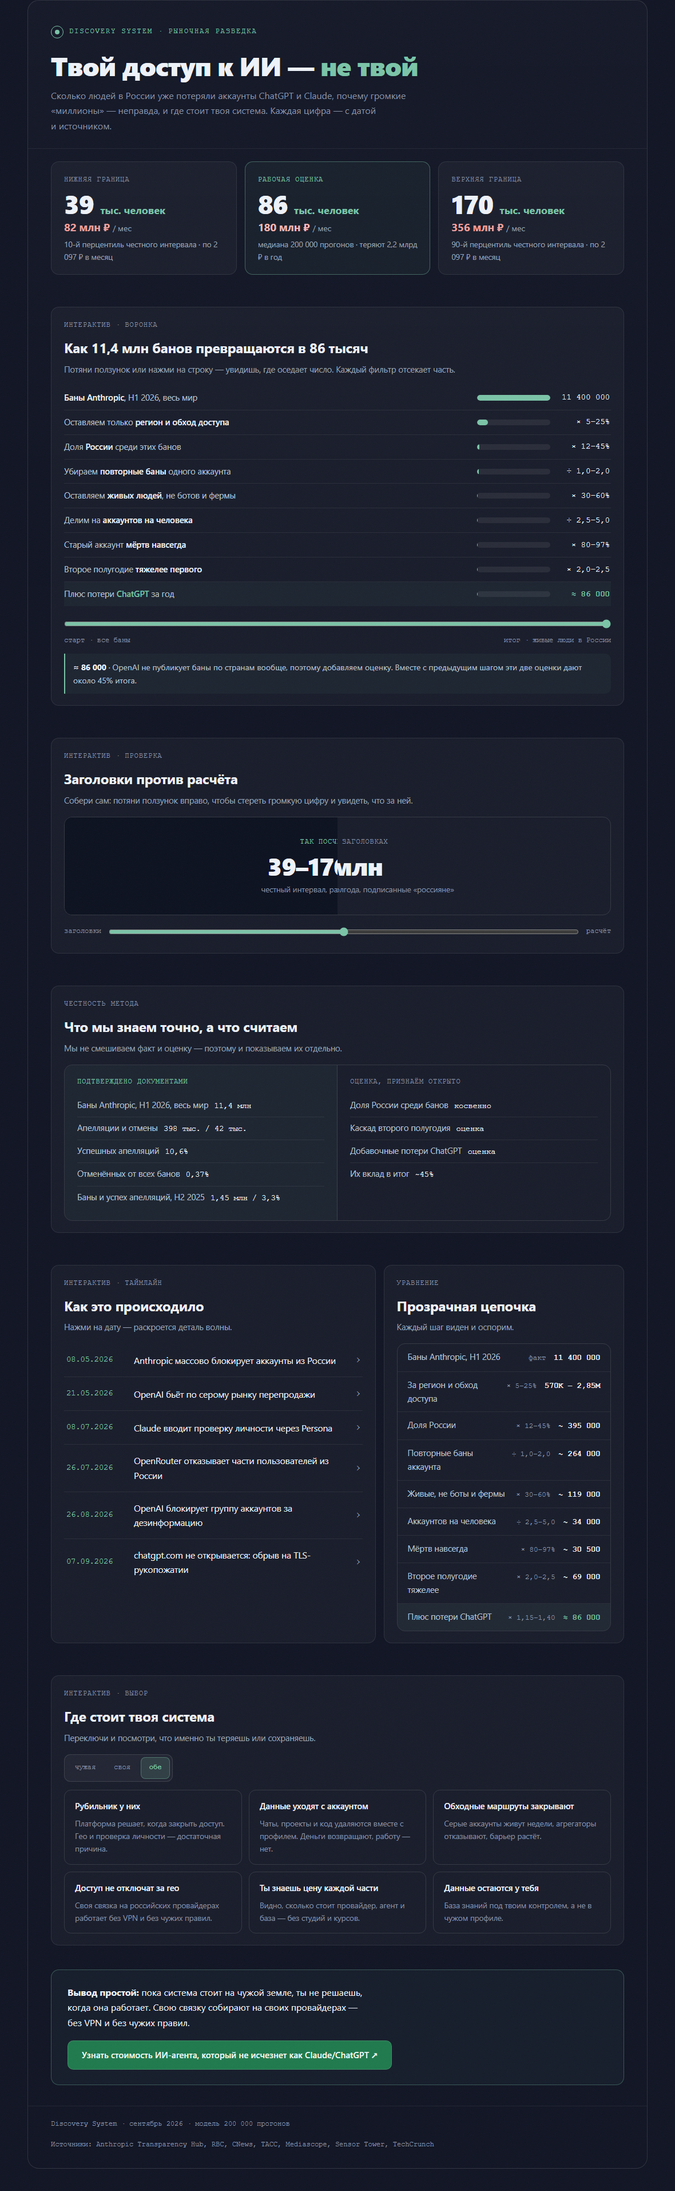
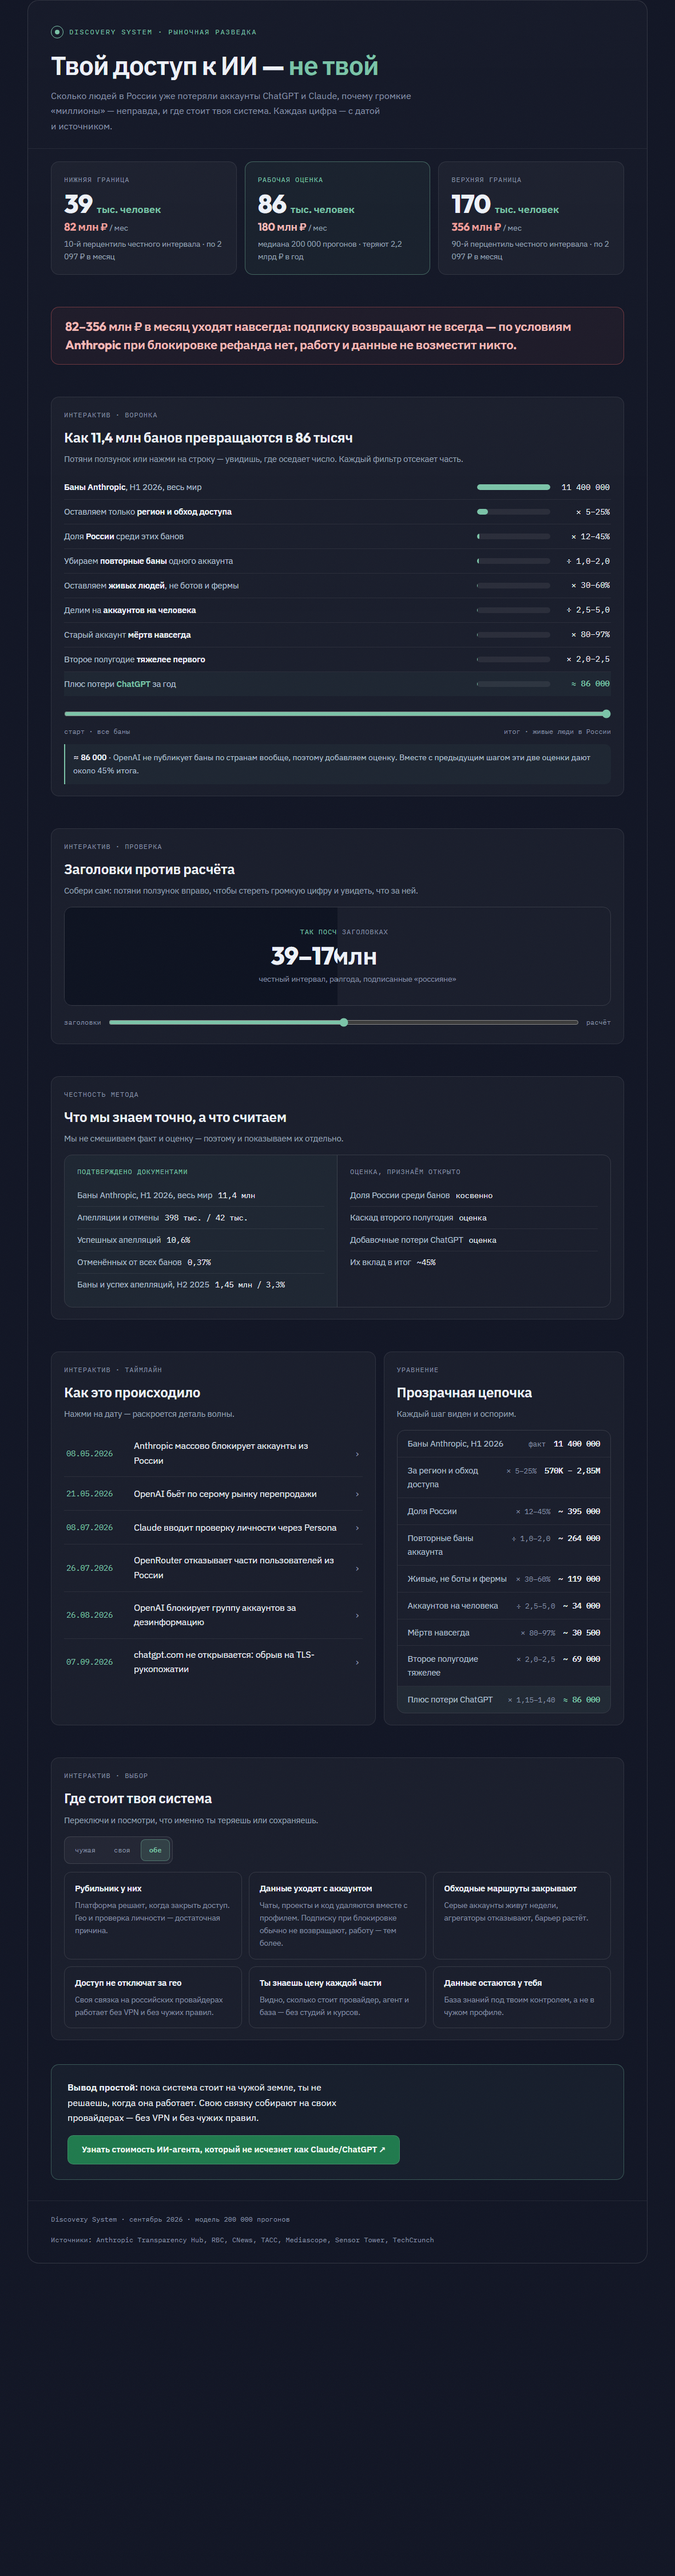
инфографика: строка потерь в рублях (не возместит никто), убрано противоречие про возврат подписки

diff --git a/lost-accounts-infographic.html b/lost-accounts-infographic.html
@@ -41,6 +41,7 @@ header p{margin-top:14px;max-width:660px;color:var(--meta);font-size:16px}
 .money b{font-weight:800}
 .money.acc{color:#f3b9b7}
 .v.red{color:#f0a09e}
+.loss-line{border:1px solid rgba(224,96,94,.4);background:rgba(224,96,94,.06);border-radius:14px;padding:18px 24px;font-family:var(--display);font-weight:700;font-size:clamp(1.05rem,2.4vw,1.35rem);color:#f3b9b7;line-height:1.45;letter-spacing:-.01em}
 .c{font-size:13.5px;color:#9aa5b8}
 h2{font-family:var(--display);font-weight:700;font-size:clamp(1.15rem,2.4vw,1.5rem);color:var(--ink);letter-spacing:-.01em;margin-bottom:6px}
 .sub{color:#9aa5b8;font-size:14.5px;margin-bottom:16px}
@@ -162,6 +163,7 @@ h1,h2{text-wrap:balance}p,li{text-wrap:pretty}
 <div class="card hi rv"><div class="k acc">рабочая оценка</div><div class="v"><span data-count="86">86</span> <small>тыс. человек</small></div><div class="money acc"><span data-count="180">180</span> млн ₽ <span style="font-size:.75em;color:#9aa5b8;font-weight:400">/ мес</span></div><div class="c">медиана 200 000 прогонов · теряют 2,2 млрд ₽ в год</div></div>
 <div class="card rv"><div class="k">верхняя граница</div><div class="v"><span data-count="170">170</span> <small>тыс. человек</small></div><div class="money"><span data-count="356">356</span> млн ₽ <span style="font-size:.75em;color:#9aa5b8;font-weight:400">/ мес</span></div><div class="c">90-й перцентиль честного интервала · по 2 097 ₽ в месяц</div></div>
 </div>
+<div class="grid one"><div class="loss-line rv">82–356 млн ₽ в месяц уходят навсегда: подписку возвращают не всегда — по условиям Anthropic при блокировке рефанда нет, работу и данные не возместит никто.</div></div>
 
 <div class="grid one">
 <div class="card rv">
@@ -215,7 +217,7 @@ h1,h2{text-wrap:balance}p,li{text-wrap:pretty}
 <h2>Как это происходило</h2>
 <p class="sub">Нажми на дату — раскроется деталь волны.</p>
 <div class="tl" id="tl">
-<div class="it"><button aria-expanded="false"><span class="dt">08.05.2026</span><span class="tt">Anthropic массово блокирует аккаунты из России</span><span class="ar">›</span></button><div class="dtl"><p>Сотни пострадавших по данным Baza. Профили удаляют вместе с данными, деньги за подписку возвращают. Источник: RBC, CNews.</p></div></div>
+<div class="it"><button aria-expanded="false"><span class="dt">08.05.2026</span><span class="tt">Anthropic массово блокирует аккаунты из России</span><span class="ar">›</span></button><div class="dtl"><p>Сотни пострадавших по данным Baza. Профили удаляют вместе с данными; единичные возвраты за подписку — жест платформы, по условиям сервиса при блокировке рефанда нет. Источник: RBC, CNews.</p></div></div>
 <div class="it"><button aria-expanded="false"><span class="dt">21.05.2026</span><span class="tt">OpenAI бьёт по серому рынку перепродажи</span><span class="ar">›</span></button><div class="dtl"><p>Усиленная защита, цены у перекупов выросли. Источник: Газета.ру.</p></div></div>
 <div class="it"><button aria-expanded="false"><span class="dt">08.07.2026</span><span class="tt">Claude вводит проверку личности через Persona</span><span class="ar">›</span></button><div class="dtl"><p>Паспорт и селфи для помеченных аккаунтов. Провал проверки — перманентный лок без повтора. Источник: Хабр, fillikam.</p></div></div>
 <div class="it"><button aria-expanded="false"><span class="dt">26.07.2026</span><span class="tt">OpenRouter отказывает части пользователей из России</span><span class="ar">›</span></button><div class="dtl"><p>Закрывается маршрут и через агрегатор. Источник: Хабр.</p></div></div>
@@ -253,7 +255,7 @@ h1,h2{text-wrap:balance}p,li{text-wrap:pretty}
 </div>
 <div class="cmp" id="cmp">
 <div class="cc foreign"><div class="ct">Рубильник у них</div><div class="cd">Платформа решает, когда закрыть доступ. Гео и проверка личности — достаточная причина.</div></div>
-<div class="cc foreign"><div class="ct">Данные уходят с аккаунтом</div><div class="cd">Чаты, проекты и код удаляются вместе с профилем. Деньги возвращают, работу — нет.</div></div>
+<div class="cc foreign"><div class="ct">Данные уходят с аккаунтом</div><div class="cd">Чаты, проекты и код удаляются вместе с профилем. Подписку при блокировке обычно не возвращают, работу — тем более.</div></div>
 <div class="cc foreign"><div class="ct">Обходные маршруты закрывают</div><div class="cd">Серые аккаунты живут недели, агрегаторы отказывают, барьер растёт.</div></div>
 <div class="cc mine"><div class="ct">Доступ не отключат за гео</div><div class="cd">Своя связка на российских провайдерах работает без VPN и без чужих правил.</div></div>
 <div class="cc mine"><div class="ct">Ты знаешь цену каждой части</div><div class="cd">Видно, сколько стоит провайдер, агент и база — без студий и курсов.</div></div>

diff --git a/lost-accounts-poster.html b/lost-accounts-poster.html
@@ -140,7 +140,7 @@ h2{font-family:'Outfit',sans-serif;font-weight:700;font-size:23px;color:#eef2f9;
 <div>
 <p class="grp">чужая инфраструктура</p>
 <div class="cc"><div class="ct">Рубильник у них</div><div class="cd">Платформа решает, когда закрыть доступ. Гео и проверка личности — достаточная причина.</div></div>
-<div class="cc" style="margin-top:11px"><div class="ct">Данные уходят с аккаунтом</div><div class="cd">Чаты, проекты и код удаляются вместе с профилем. Деньги возвращают, работу — нет.</div></div>
+<div class="cc" style="margin-top:11px"><div class="ct">Данные уходят с аккаунтом</div><div class="cd">Чаты, проекты и код удаляются вместе с профилем. Подписку при блокировке обычно не возвращают, работу — тем более.</div></div>
 </div>
 <div>
 <p class="grp m">своя связка</p>
@@ -151,7 +151,7 @@ h2{font-family:'Outfit',sans-serif;font-weight:700;font-size:23px;color:#eef2f9;
 </div>
 
 <div class="card wide ctabox">
-<p class="ctap">Пока система стоит на чужой земле, ты не решаешь, когда она работает. Своя связка — на своих провайдерах, без VPN.</p>
+<p class="ctap">82–356 млн ₽ в месяц уходят навсегда: по условиям Anthropic при блокировке рефанда нет, работу и данные не возместит никто.</p>
 <div class="ctab">Узнать стоимость ИИ-агента, который не исчезнет как Claude/ChatGPT ↗</div>
 </div>
 
